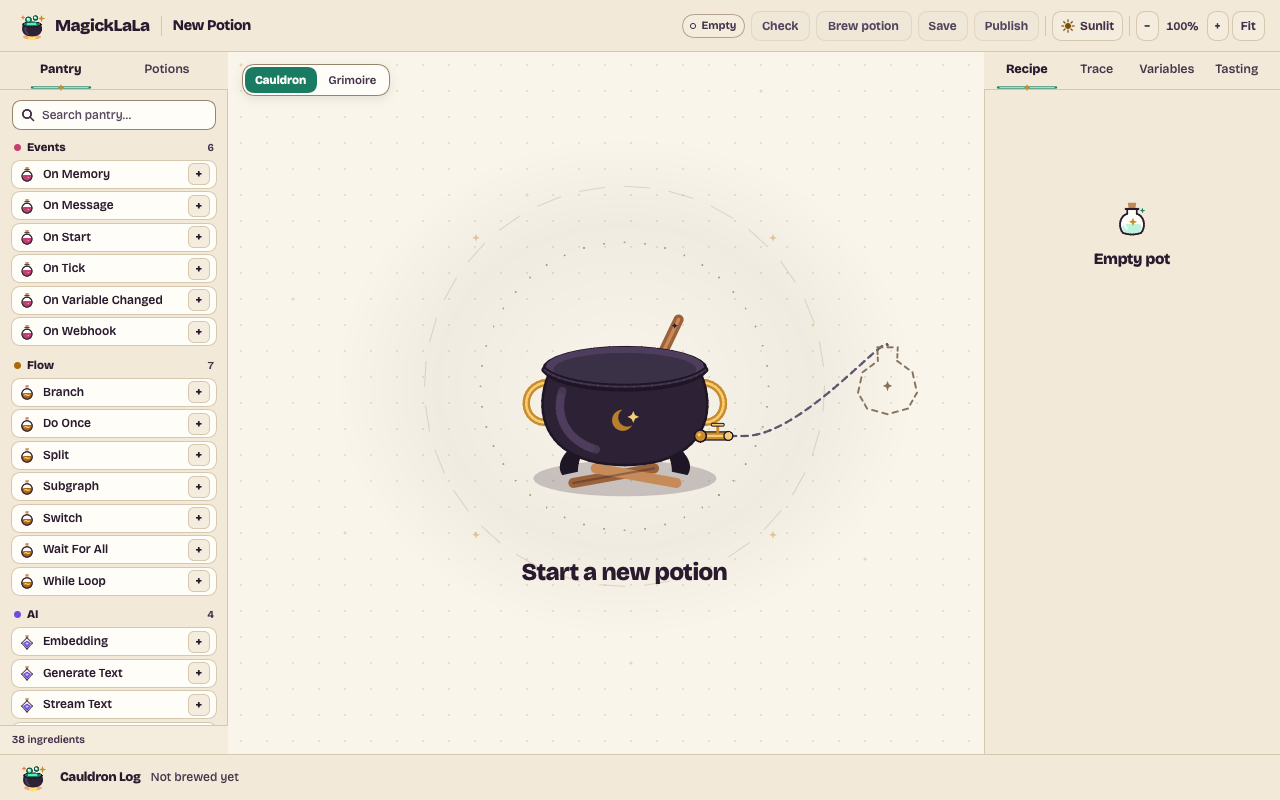
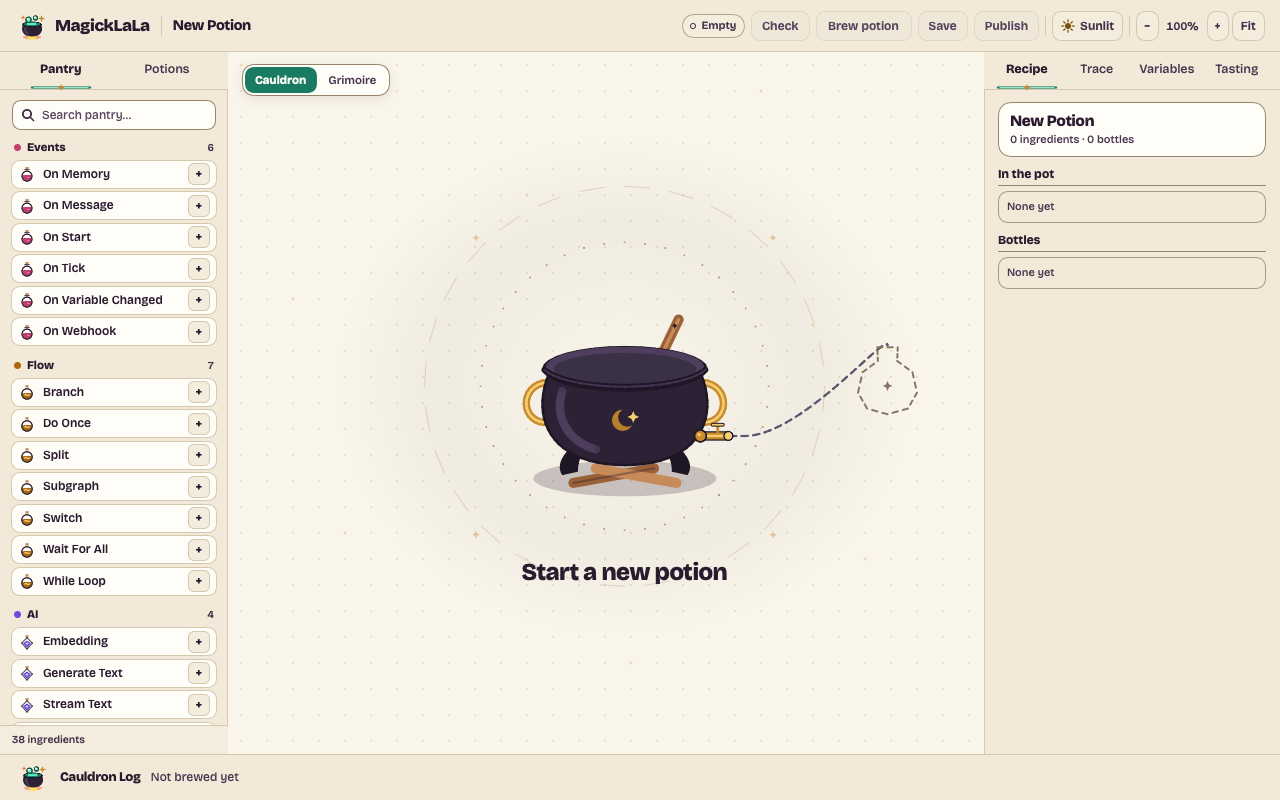
fix(studio): an empty pot's Recipe tab shows the potion's recipe card with In the pot and Bottles marked None yet instead of a lone heading over blank space, covered by the empty-recipe e2e test

Changed region(s): [[0.7812, 0.125, 1.0, 0.3438]]

diff --git a/crates/magicklala-studio/src/view.rs b/crates/magicklala-studio/src/view.rs
@@ -1720,7 +1720,25 @@ fn recipe_overview(app: &StudioApp, light: bool, t: &HearthPalette) -> El {
             .on_press(move |app: &mut StudioApp| app.canvas.select(Some(id.clone())))
     };
     let section = |title: &str, cards: &[&magicklala_canvas::NodeCardModel]| {
-        (!cards.is_empty()).then(|| cards.iter().fold(col().w_full().gap(5.0).child(inspector_section_heading(title, t)), |list, card| list.child(entry(card))))
+        let empty_pot = app.canvas.nodes.is_empty() && title != "Set aside";
+        (!cards.is_empty() || empty_pot).then(|| {
+            let list = col().w_full().gap(5.0).child(inspector_section_heading(title, t));
+            if cards.is_empty() {
+                list.child(
+                    row()
+                        .w_full()
+                        .min_h(32.0)
+                        .px(9.0)
+                        .radius(10.0)
+                        .continuous_corners()
+                        .items_center()
+                        .border(1.0, with_alpha(t.rule_2, 0.8))
+                        .child(label("None yet", 11.0, 500.0, t.mute)),
+                )
+            } else {
+                cards.iter().fold(list, |list, card| list.child(entry(card)))
+            }
+        })
     };
     col()
         .key("recipe-overview")
@@ -1735,18 +1753,7 @@ fn recipe_overview(app: &StudioApp, light: bool, t: &HearthPalette) -> El {
 
 fn inspector_body(app: &StudioApp, light: bool, t: &HearthPalette) -> El {
     let Some(card) = app.canvas.selected_card() else {
-        if !app.canvas.nodes.is_empty() {
-            return recipe_overview(app, light, t);
-        }
-        return col()
-            .key("inspector-empty")
-            .w_full()
-            .pt(108.0)
-            .px(12.0)
-            .items_center()
-            .gap(10.0)
-            .child(canvas(empty_bottle_mark(light, 42.0)).key("inspector-empty-bobbin").size(42.0, 42.0))
-            .child(heading(if app.canvas.nodes.is_empty() { "Empty pot" } else { "No ingredient picked" }, 15.5, 800.0, t.ink));
+        return recipe_overview(app, light, t);
     };
     let compact = app.size.1 < COMPACT_INSPECTOR_BELOW;
     let socket_h = if compact { 21.0 } else { 24.0 };
